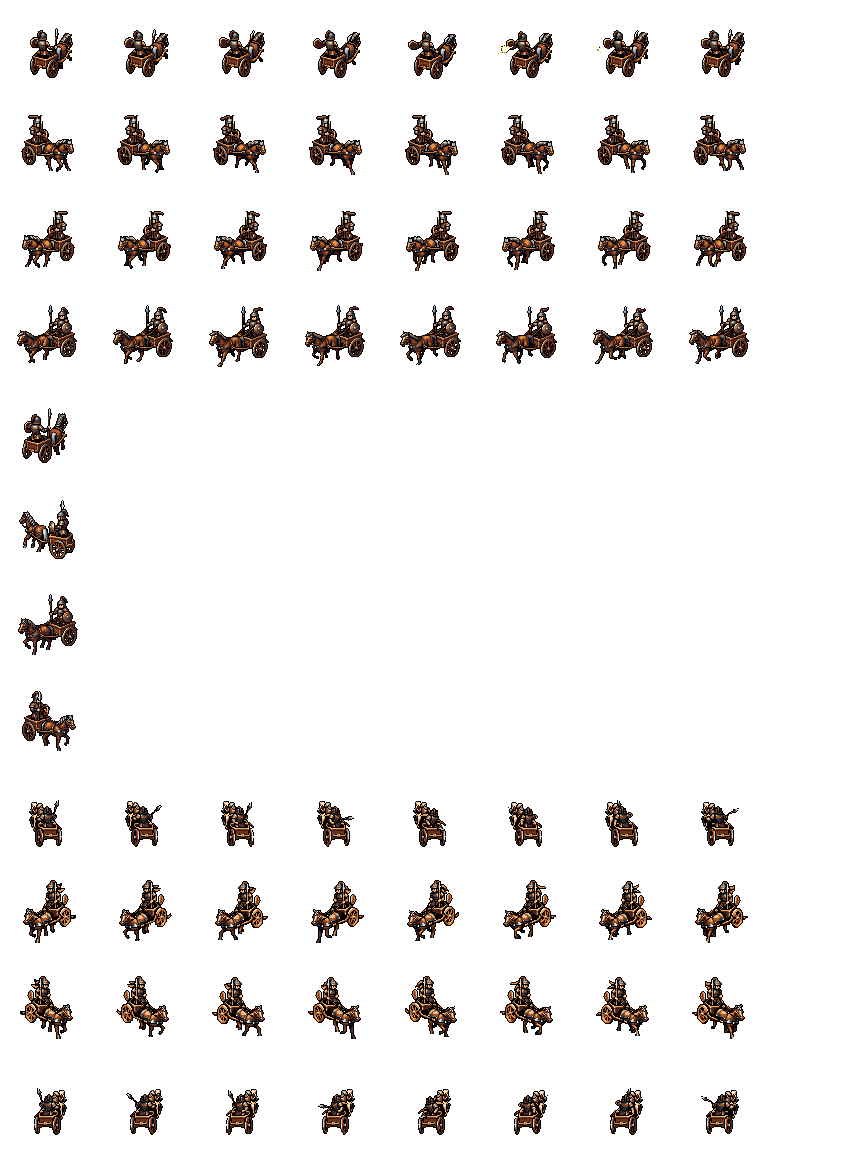
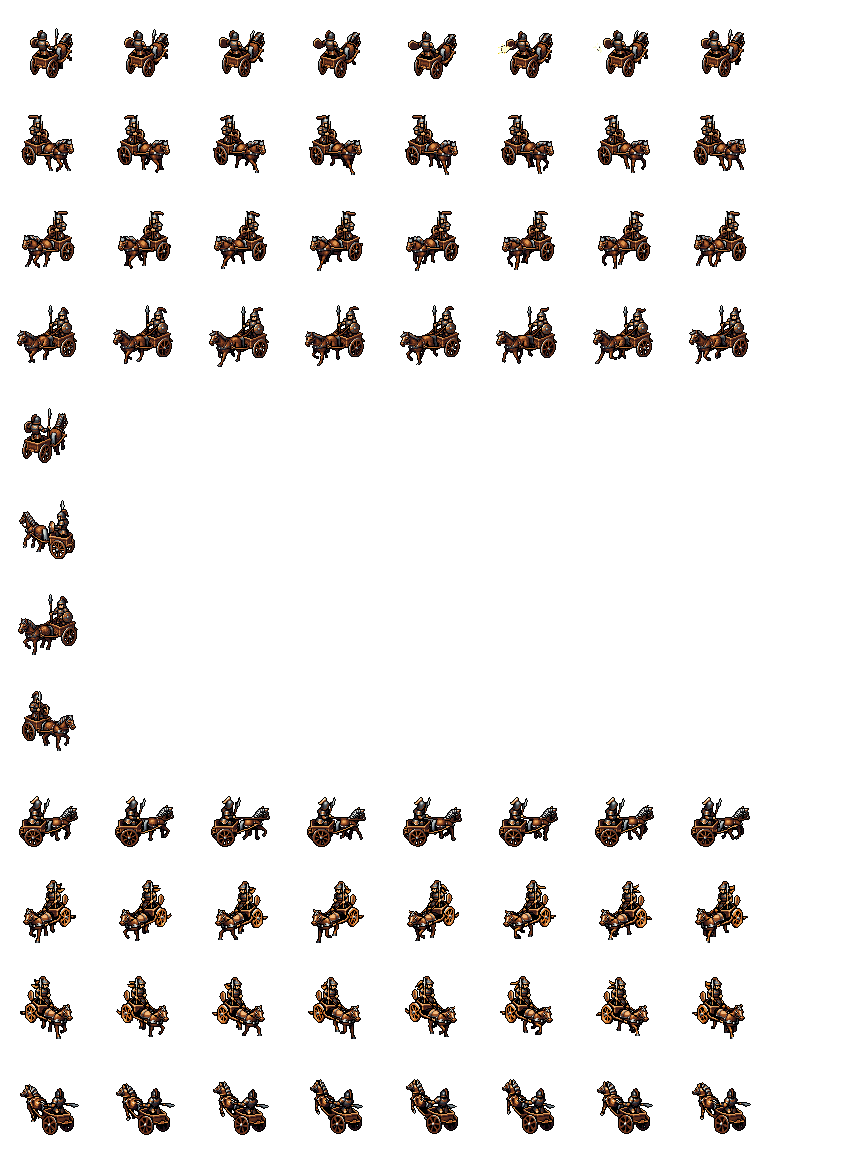
Колесницы Бр3: новые кадры north_east/north_west + сглаженные углы пути
Старые north_east.gif/north_west.gif (повороты «вверх») были испорчены при генерации —
лошадь превращалась в кашу из пикселей на собранном листе (ряды 8/11, diagWalk). Заменил
на новые кадры, пересобрал лист (tools/build_character_sheets.py).

Заодно включил сглаживание: углы прямоугольных путей колесниц (barak_3.js) были
мгновенным поворотом на 90° — теперь каждый угол разрезан на срезанный диагональный
отрезок (как и было задумано в ChariotEnemy.js/diagWalk, просто раньше в путях не было
ни одного диагонального отрезка, чтобы это сработало).

Claude-Session: https://claude.ai/code/session_01KEAPZtJiHtauZzcNoSQVqg

diff --git a/src/data/maps/barak_3.js b/src/data/maps/barak_3.js
@@ -117,10 +117,19 @@ defineZone({
       extra: 7,
       spawns: [[15, 6], [18, 11], [22, 7], [22, 15], [28, 11], [30, 6], [30, 16], [35, 11], [20, 3], [27, 19]],
     },
-    // колесницы: две ездят по кругу, третья — поперёк долины туда-обратно
+    // колесницы: две ездят по кругу, третья — поперёк долины туда-обратно. У прямоугольных
+    // путей углы срезаны (каждый угол — две точки вместо одной, разрыв в 1.5 тайла до/после):
+    // ChariotEnemy.js на срезанном отрезке едет по диагонали (facing8Of + diagWalk, 4 доп. ряда
+    // листа) вместо мгновенного поворота на 90° прямо в углу — так раньше смотрелось резко.
     chariots: [
-      { path: [[16, 4], [34, 4], [34, 9], [16, 9]], speed: 105 },
-      { path: [[16, 13], [34, 13], [34, 18], [16, 18]], speed: 95 },
+      {
+        path: [[17.5, 4], [32.5, 4], [34, 5.5], [34, 7.5], [32.5, 9], [17.5, 9], [16, 7.5], [16, 5.5]],
+        speed: 105,
+      },
+      {
+        path: [[17.5, 13], [32.5, 13], [34, 14.5], [34, 16.5], [32.5, 18], [17.5, 18], [16, 16.5], [16, 14.5]],
+        speed: 95,
+      },
       { path: [[25, 3], [25, 19]], speed: 85 },
     ],
     siseraChariot: 0,
